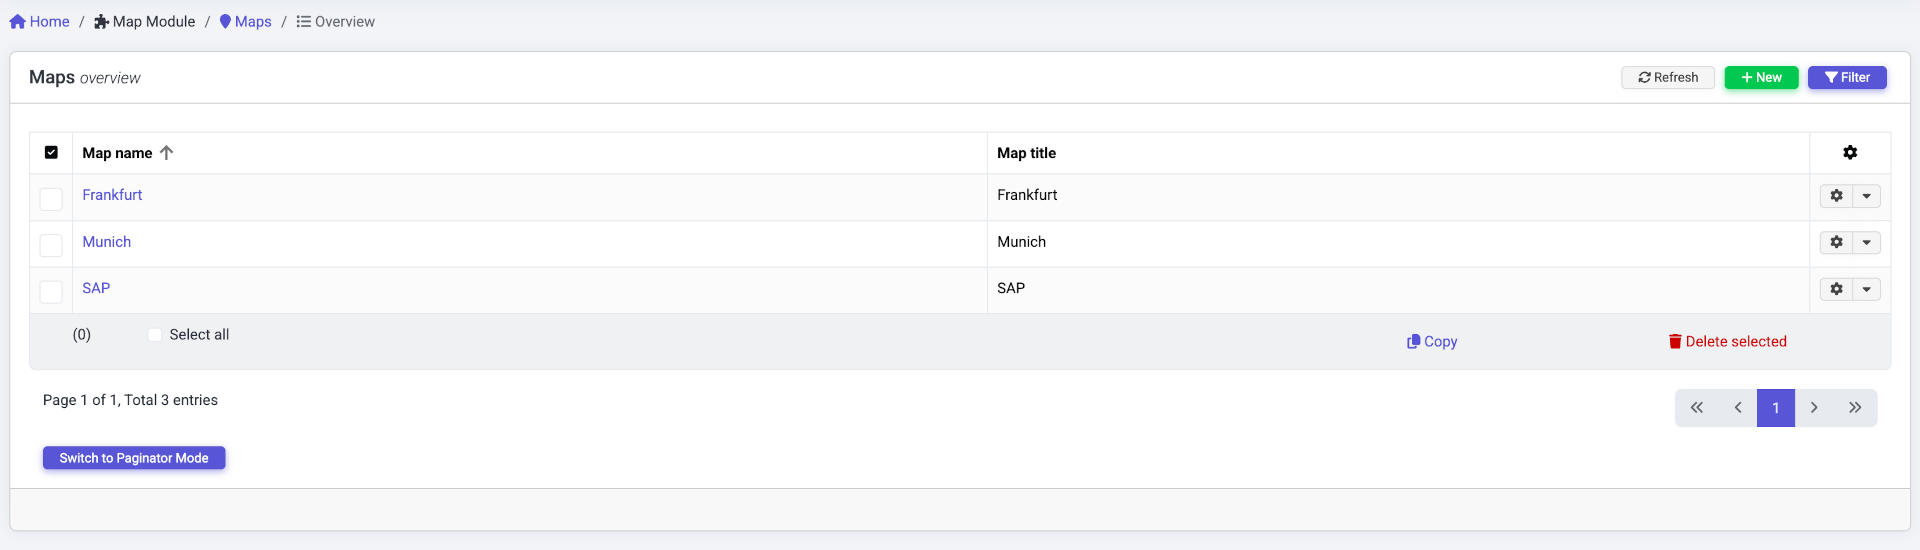
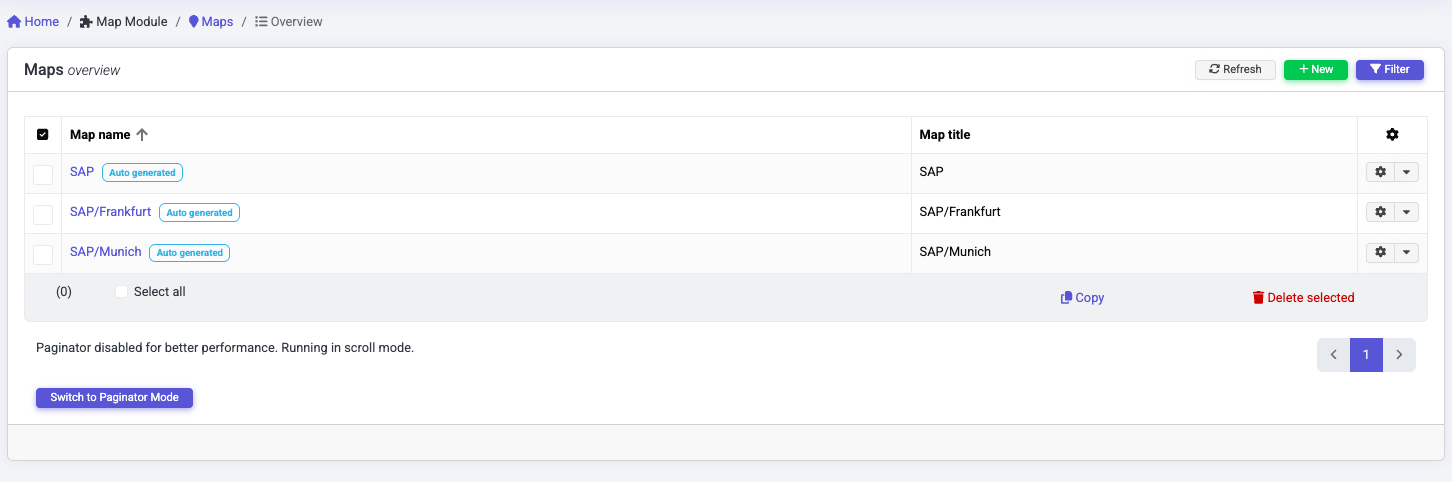
ITC-3484 - added documentation for generation through hostname splitting

diff --git a/de/docs/monitoring/maps.md b/de/docs/monitoring/maps.md
@@ -187,15 +187,15 @@ Karten Generatoren können automatisch Karten mit Zusammenfassungselementen erst
 
 #### Generierung durch Container-Struktur
 
-Als Ausgangspunkt der Generierung dienen die Hosts. Es werden alle Hosts sowie Container von jeden Host bis zu den angegebenen Container berücksichtigt. Für jeden dieser Container wird eine Karte erstellt. Karten/Container, die hierarchisch in der Container-Struktur weiter unten stehen, werden den darüberliegenden Karten als Zusammenfassungselemente hinzugefügt, sodass die Container-Struktur durchgeklickt werden kann. Hosts werden ebenfalls der generierten Karte, die den zugewiesenen Container darstellt, als Zusammenfassungselemente hinzugefügt.
+Als Ausgangspunkt der Generierung dienen die Hosts. Es werden alle Hosts sowie Container von jeden Host bis zu den Tenant Container berücksichtigt. Für jeden dieser Container wird eine Karte erstellt. Karten/Container, die hierarchisch in der Container-Struktur weiter unten stehen, werden den darüberliegenden Karten als Zusammenfassungselemente hinzugefügt, sodass die Container-Struktur durchgeklickt werden kann. Hosts werden ebenfalls der generierten Karte, die den zugewiesenen Container darstellt, als Zusammenfassungselemente hinzugefügt.
 
 ![](/images/mapmodule-mapgeneratormapexample.png)
 
-Die Generierung wird durch die Angabe von Containern eingeschränkt. Bei den angegebenen Containern, muss einer dieser Container in der Container-Hierarchie des Hosts bis zum Mandanten-Container vorkommen. Andernfalls wird der Host sowie dessen Hierarchie ignoriert. Diese Container bilden dann die ersten Container in der Hierarchie.
+Die Generierung wird durch die Angabe von Containern eingeschränkt. Bei den angegebenen Containern, muss einer dieser Container in der Container-Hierarchie des Hosts bis zum Tenant-Container vorkommen. Andernfalls wird der Host sowie dessen Hierarchie ignoriert.
 
 ![](/images/mapmodule-mapgeneratorgeneratedmaps.png)
 
-Die generierten Karten erhalten den angegebenen Container, der in der Hierarchie vorkommt, als zugewiesenen Container.
+Die generierten Karten erhalten den Tenant Container, der in der Hierarchie vorkommt, als zugewiesenen Container.
 
 Das Feld „Elemente pro Zeile“ gibt an, wie viele Elemente in einer Reihe platziert werden, bevor ein Zeilenumbruch erfolgt.
 
@@ -204,6 +204,14 @@ Das Feld „Elemente pro Zeile“ gibt an, wie viele Elemente in einer Reihe pla
 Eine Karten-Generierung kann erneut gestartet werden. Dabei werden neue Elemente zu den bestehenden generierten Karten hinzugefügt oder neue Karten und Elemente erstellt, falls neue Hosts oder Container vorhanden sind.
 
 ![](/images/mapmodule-mapgeneratorgenerate.png)
+
+#### Generierung durch Hostname Teilung
+
+Bei der Generierung durch Hostnamen Teilung werden alle Hostnamen anhand der angegebenen Ebenen und ihre Teiler zerstückelt. Pro Teil wird eine Karte erstellt. wobei die Karte die weiter unten in der Ebenen Hierarchie steht der oberen als Zusammenfassungselement hinzugefügt wird. Für die letzte angebene Ebene wird keine Karte erstellt. Für diese Ebene wird geprüft ob es einen Host mit diesem Namen gibt. Dieser wird dann der letzten Karte in der Ebenen Hierarchie als Zusammenfassungselement hinzugefügt. Der gesammte Host mit seinen Ebenen wird in der Generierung nicht berücksichtigt falls kein Host gefunden wurde. Ebenfalls müssen die Anzahl der Teile mit der Anzahl der definierten Ebenen übereinstimmen um bei der Generierung berücksichtigt zu werden.
+
+Eines der definierten Ebenen muss als Container Ebene definiert sein. Bei dieser Ebene wird geprüft ob es einen Container mit diesem Namen gibt. Ebenfalls muss er mit einer der weiter oben angegebenen Containern übereinstimmen. Ist eins von beiden nicht der Fall wird der Host und seine Ebenen bei der Generierung ingoriert. 
+
+![](/images/mapmodule-mapgeneratoredit-hostnamesplitting.png)
 
 ## OpenStreetMap <span class="badge badge-danger badge-outlined" title="Enterprise Edition">EE</span>
 

diff --git a/en/docs/monitoring/maps.md b/en/docs/monitoring/maps.md
@@ -182,15 +182,15 @@ Map generators can automatically create maps with summary items.
 
 #### Generation through container structure
 
-The hosts serve as the starting point for the generation. All hosts and containers from each host up to the specified container are taken into account. A map is created for each of these containers. Maps/containers that are further down the hierarchy in the container structure are added to the maps above them as summary items so that the container structure can be clicked through. Hosts are also added as summary items to the generated map that represents the assigned container.
+The hosts serve as the starting point for the generation. All hosts and containers from each host up to the tenant container are taken into account. A map is created for each of these containers. Maps/containers that are further down the hierarchy in the container structure are added to the maps above them as summary items so that the container structure can be clicked through. Hosts are also added as summary items to the generated map that represents the assigned container.
 
 ![](/images/mapmodule-mapgeneratormapexample.png)
 
-The generation will be restricted by the specification of containers. For the specified containers, one of these containers must occur in the container hierarchy of the host up to the client container. Otherwise, the host and its hierarchy are ignored. These containers then form the first containers in the hierarchy.
+The generation will be restricted by the specification of containers. For the specified containers, one of these containers must occur in the container hierarchy of the host up to the tenant container. Otherwise, the host and its hierarchy are ignored.
 
 ![](/images/mapmodule-mapgeneratorgeneratedmaps.png)
 
-The generated maps receive the specified container that occurs in the hierarchy as the assigned container.
+The generated maps receive the tenant container that occurs in the hierarchy as the assigned container.
 
 The “Items per line” field specifies how many items are placed in a row before a line break occurs.
 
@@ -199,6 +199,14 @@ The “Items per line” field specifies how many items are placed in a row befo
 A map generation can be restarted. New items are added to the existing generated maps or new maps and items are created if new hosts or containers are available.
 
 ![](/images/mapmodule-mapgeneratorgenerate.png)
+
+#### Generation through hostname splitting
+
+When generating by host name splitting, all host names are split according to the specified levels and their dividers. A map is created for each part, whereby the map further down in the level hierarchy is added to the upper one as a summary item. No map is created for the last specified level. The system checks whether there is a host with this name for this level. This is then added to the last map in the level hierarchy as a summary item. The entire host with its levels is not included in the generation if no host is found. The number of parts must also match the number of defined levels in order to be included in the generation.
+
+One of the defined levels must be defined as a container level. This level is checked to see whether there is a container with this name. It must also match one of the containers specified above. If neither is the case, the host and its levels are ignored during generation.
+
+![](/images/mapmodule-mapgeneratoredit-hostnamesplitting.png)
 
 ## OpenStreetMap <span class="badge badge-danger badge-outlined" title="Enterprise Edition">EE</span>
 
